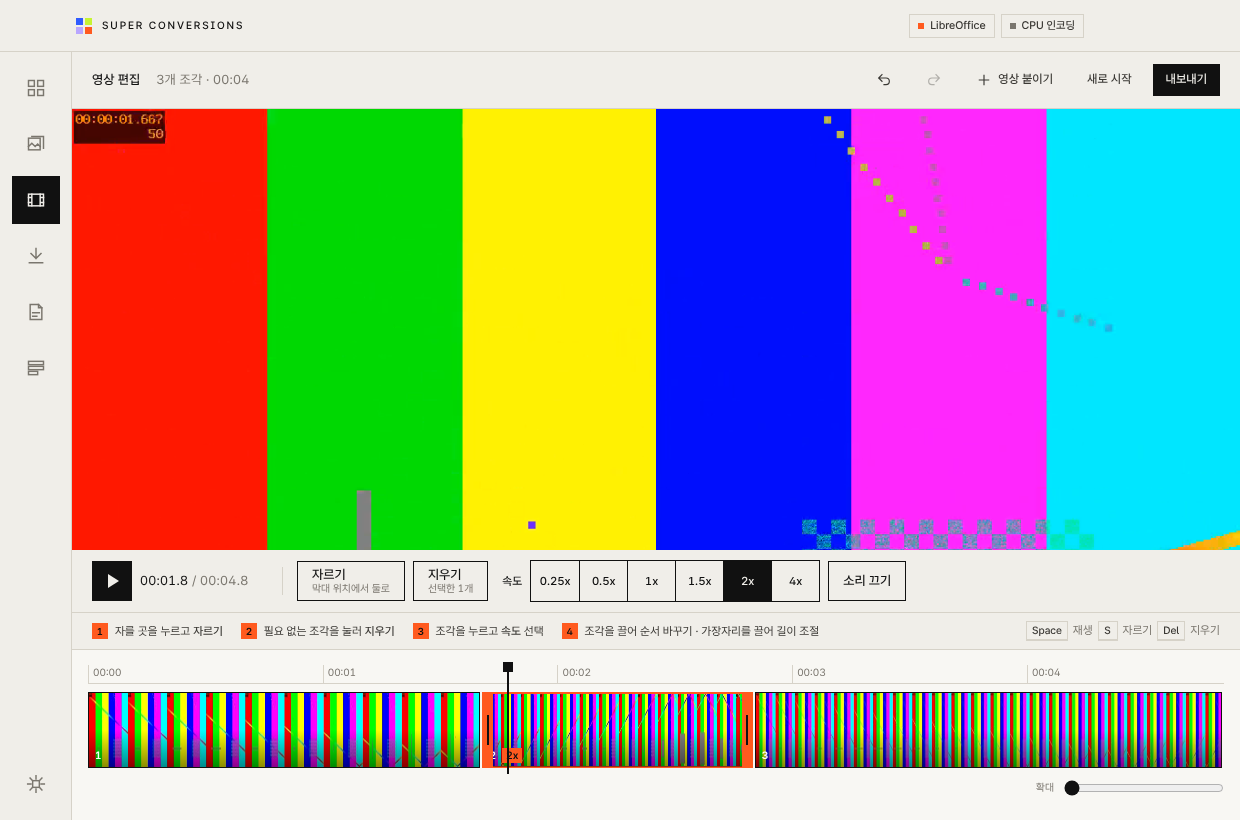
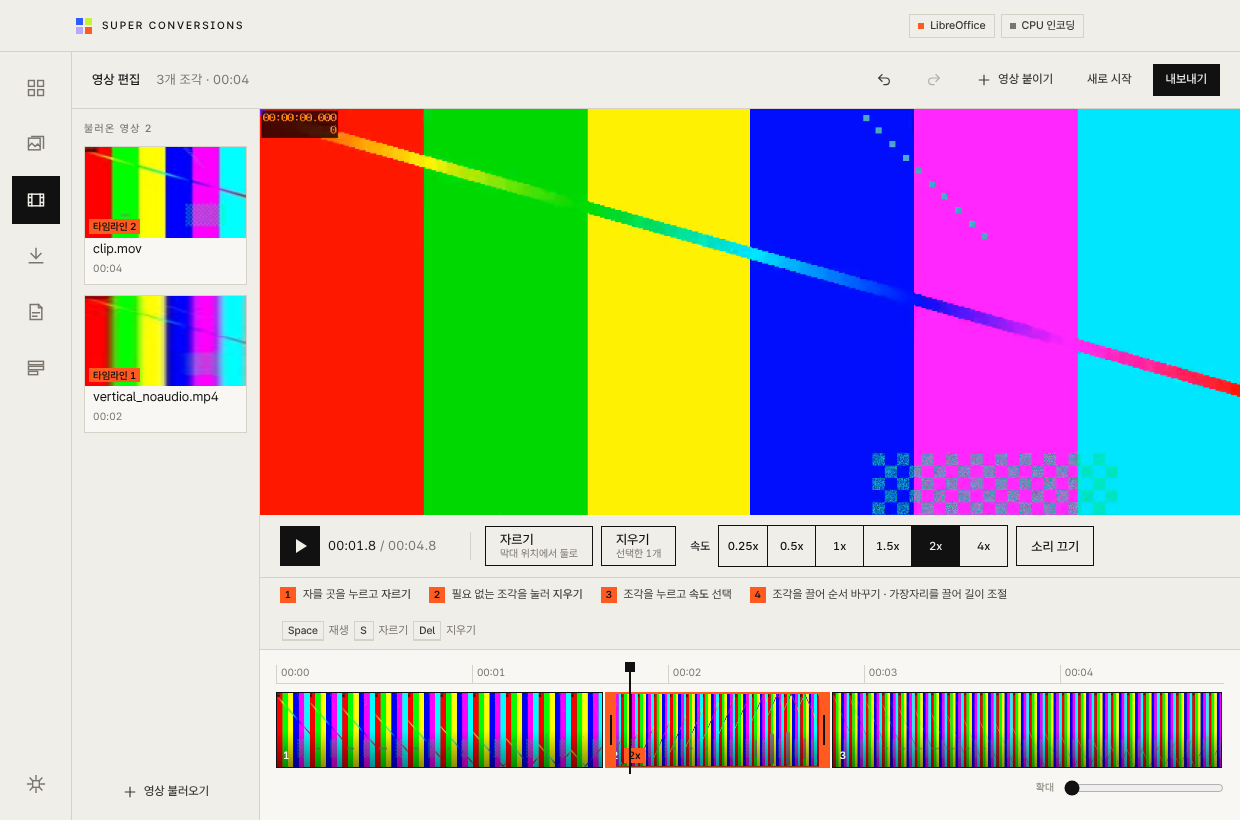
영상 편집: 불러온 영상을 툴에서만 빼기 · 편집 중에도 불러온 영상 목록 표시 / 작업 탭: 내역 지우기가 화면에 반영되지 않던 문제 수정, 작업별 지우기 추가
Claude-Session: https://claude.ai/code/session_01LHmiibpoSay6Wsauo541aD

diff --git a/src/renderer/src/views/VideoEditor.tsx b/src/renderer/src/views/VideoEditor.tsx
@@ -2,7 +2,7 @@ import { useCallback, useEffect, useMemo, useRef, useState } from 'react'
 import type { ExportLevel, Job, VideoClipInfo } from '@shared/types'
 import { sc } from '../lib/api'
 import { baseName, cls, fmtBytes } from '../lib/util'
-import { IcPlus, IcRedo, IcUndo } from '../lib/icons'
+import { IcPlus, IcRedo, IcUndo, IcX } from '../lib/icons'
 
 // ---------------------------------------------------------------- model
 interface Clip {
@@ -154,6 +154,25 @@ export default function VideoEditor({ active, inbox, clearInbox, toast }: Props)
   }, [inbox]) // eslint-disable-line react-hooks/exhaustive-deps
 
   useEffect(() => sc.onProxyProgress((p, x) => setProxyPct((m) => ({ ...m, [p]: x }))), [])
+
+  /** Remove an imported video from the tool only — the file on disk is untouched. */
+  const removeClip = (path: string) => {
+    const used = segsRef.current.filter((x) => x.path === path).length
+    if (used && !window.confirm(`타임라인에서 이 영상으로 만든 조각 ${used}개도 함께 빠집니다. 계속할까요?\n(컴퓨터의 원본 파일은 지워지지 않습니다)`)) return
+    if (used) {
+      video.current?.pause()
+      setPlaying(false)
+      loadedPath.current = null
+      commit((ss) => ss.filter((x) => x.path !== path))
+      setSel(new Set())
+    }
+    setClips((c) => {
+      const n = { ...c }
+      delete n[path]
+      return n
+    })
+    toast(`${baseName(path)}을(를) 목록에서 뺐습니다 · 원본 파일은 그대로입니다`)
+  }
 
   // ---------------------------------------------------------------- playback
   const loadSeg = useCallback(async (i: number, src: number, autoplay: boolean) => {
@@ -424,7 +443,7 @@ export default function VideoEditor({ active, inbox, clearInbox, toast }: Props)
               <button onClick={async () => addPaths(await sc.pickVideos(), 'replace')}>영상 불러오기</button>
             </div>
           </div>
-          {shelf.length > 0 && <Shelf shelf={shelf} onEdit={(p) => addPaths([p], 'replace')} onAppend={(p) => addPaths([p], 'append')} />}
+          {shelf.length > 0 && <Shelf shelf={shelf} onEdit={(p) => addPaths([p], 'replace')} onAppend={(p) => addPaths([p], 'append')} onRemove={removeClip} />}
         </div>
       </div>
     )
@@ -506,6 +525,14 @@ export default function VideoEditor({ active, inbox, clearInbox, toast }: Props)
         </div>
       )}
 
+      <div className="vedit-body">
+      <aside className="vedit-bin">
+        <div className="cap">불러온 영상 {shelf.length}</div>
+        <Shelf compact shelf={shelf} onEdit={(p) => addPaths([p], 'append')} onAppend={(p) => addPaths([p], 'append')} onRemove={removeClip} usage={(p) => segs.filter((x) => x.path === p).length} />
+        <button className="btn ghost" style={{ justifyContent: 'center' }} onClick={async () => addPaths(await sc.pickVideos(), 'shelf')}>
+          <IcPlus /> 영상 불러오기
+        </button>
+      </aside>
       <div className="vedit-main">
         <div className="vedit-stage">
           <video ref={video} className="vedit-video" playsInline onError={onVideoError} onClick={togglePlay} />
@@ -639,38 +666,61 @@ export default function VideoEditor({ active, inbox, clearInbox, toast }: Props)
         </div>
       </div>
 
+      </div>
       {exporting && <ExportModal total={total} first={segs[0].path} firstClip={clips[segs[0].path]} onClose={() => setExporting(false)} onRun={runExport} />}
     </div>
   )
 }
 
 // ---------------------------------------------------------------- pieces
-function Shelf({ shelf, onEdit, onAppend }: { shelf: Clip[]; onEdit: (p: string) => void; onAppend: (p: string) => void }) {
+function Shelf({ shelf, onEdit, onAppend, onRemove, compact, usage }: { shelf: Clip[]; onEdit: (p: string) => void; onAppend: (p: string) => void; onRemove: (p: string) => void; compact?: boolean; usage?: (p: string) => number }) {
+  const cards = (
+    <div className={cls('vshelf', compact && 'compact')}>
+      {shelf.map((c) => {
+        const n = usage?.(c.path) ?? 0
+        return (
+          <div key={c.path} className="vcard" onClick={() => onEdit(c.path)} title={compact ? '눌러서 타임라인 끝에 붙이기' : '눌러서 편집'}>
+            <div className="th" style={c.sprite ? { backgroundImage: `url(${c.sprite.url})`, backgroundSize: `${c.sprite.frames * 100}% 100%` } : undefined}>
+              <button
+                className="vcard-x"
+                onClick={(e) => {
+                  e.stopPropagation()
+                  onRemove(c.path)
+                }}
+                title="툴에서만 빼기 (원본 파일은 지워지지 않습니다)"
+                aria-label="목록에서 빼기"
+              >
+                <IcX />
+              </button>
+              {n > 0 && <span className="vcard-n">타임라인 {n}</span>}
+            </div>
+            <div className="nm">{c.name}</div>
+            <div className="muted mono" style={{ fontSize: 10.5 }}>
+              {fmt(c.info.duration)}
+            </div>
+            {!compact && (
+              <button
+                className="btn ghost"
+                onClick={(e) => {
+                  e.stopPropagation()
+                  onAppend(c.path)
+                }}
+              >
+                + 붙이기
+              </button>
+            )}
+          </div>
+        )
+      })}
+    </div>
+  )
+  if (compact) return cards
   return (
     <div style={{ marginTop: 28, textAlign: 'left' }}>
       <div className="cap" style={{ marginBottom: 8 }}>
         불러온 영상
       </div>
-      <div className="vshelf">
-        {shelf.map((c) => (
-          <div key={c.path} className="vcard" onClick={() => onEdit(c.path)} title="눌러서 편집">
-            <div className="th" style={c.sprite ? { backgroundImage: `url(${c.sprite.url})`, backgroundSize: `${c.sprite.frames * 100}% 100%` } : undefined} />
-            <div className="nm">{c.name}</div>
-            <div className="muted mono" style={{ fontSize: 10.5 }}>
-              {fmt(c.info.duration)}
-            </div>
-            <button
-              className="btn ghost"
-              onClick={(e) => {
-                e.stopPropagation()
-                onAppend(c.path)
-              }}
-            >
-              + 붙이기
-            </button>
-          </div>
-        ))}
-      </div>
+      {cards}
     </div>
   )
 }

diff --git a/src/renderer/src/views/JobsView.tsx b/src/renderer/src/views/JobsView.tsx
@@ -40,11 +40,11 @@ export default function JobsView({ jobs }: { jobs: Job[] }) {
       <div className="row" style={{ alignItems: 'flex-end' }}>
         <div className="grow">
           <h1>작업</h1>
-          <p className="lead">변환 결과는 원본 폴더의 SUPER CONVERSIONS/V번호 폴더에 저장됩니다. 실행할 때마다 V1, V2, V3…가 새로 만들어집니다.</p>
+          <p className="lead">변환 결과는 원본 폴더의 SUPER CONVERSIONS/V번호 폴더에 저장됩니다. 실행할 때마다 V1, V2, V3…가 새로 만들어집니다. 내역을 지워도 만들어진 파일은 그대로 남습니다.</p>
         </div>
-        {jobs.some((j) => j.status !== 'running') && (
-          <button className="btn ghost" onClick={() => sc.clearJobs()}>
-            완료 항목 지우기
+        {jobs.some((j) => j.status !== 'running' && j.status !== 'queued') && (
+          <button className="btn" onClick={() => sc.clearJobs()} title="진행 중인 작업은 남기고 끝난 작업 내역만 지웁니다. 만들어진 파일은 지워지지 않습니다.">
+            끝난 작업 모두 지우기
           </button>
         )}
       </div>
@@ -68,6 +68,11 @@ export default function JobsView({ jobs }: { jobs: Job[] }) {
               {j.status === 'running' && (
                 <button className="btn ghost" onClick={() => sc.cancel(j.id)}>
                   <IcX /> 취소
+                </button>
+              )}
+              {j.status !== 'running' && j.status !== 'queued' && (
+                <button className="btn ghost" onClick={() => sc.removeJob(j.id)} title="이 작업 내역만 목록에서 지웁니다 (파일은 그대로)" aria-label="내역 지우기">
+                  <IcX />
                 </button>
               )}
               {j.outDirs.map((d) => (

diff --git a/src/main/index.ts b/src/main/index.ts
@@ -6,7 +6,7 @@ import { initUpdater, setUpdaterEnabled } from './updater'
 import { categoryOf, type ActionId } from '@shared/formats'
 import type { ActionOptions, EditDocument, EngineStatus, Settings } from '@shared/types'
 import { getSettings, saveSettings, addSignature, removeSignature, getSignaturePng } from './settings'
-import { startJob, startEditJob, startDownloadJob, cancelJob, listJobs, clearFinished } from './jobs'
+import { startJob, startEditJob, startDownloadJob, cancelJob, listJobs, clearFinished, removeJob } from './jobs'
 import { detectOffice, officeWorker } from './engines/office'
 import { probeUrl, extractUrls } from './engines/download'
 import { pageInfo } from './engines/pdf'
@@ -321,6 +321,7 @@ function registerIpc() {
   ipcMain.handle('job:cancel', (_e, id: string) => cancelJob(id))
   ipcMain.handle('job:list', () => listJobs())
   ipcMain.handle('job:clear', () => clearFinished())
+  ipcMain.handle('job:remove', (_e, id: string) => removeJob(id))
   ipcMain.handle('url:probe', (_e, url: string) => probeUrl(url))
   ipcMain.handle('url:extract', (_e, text: string) => extractUrls(text))
   ipcMain.handle('pdf:pageInfo', (_e, path: string) => pageInfo(path))
@@ -500,7 +501,11 @@ async function devShots(dir: string, files: string[]) {
     await js(`[...document.querySelectorAll('.toolbar .btn')].find((b) => b.textContent.includes('내보내기')).click()`)
     await wait(700)
     await shot('14-video-export')
+    await js(`document.body.dispatchEvent(new KeyboardEvent('keydown', { key: 'Escape', bubbles: true }))`)
   }
+  await js(`document.querySelectorAll('.rail button')[5].click()`)
+  await wait(800)
+  await shot('15-jobs')
   app.exit(0)
 }
 

diff --git a/src/main/selftest.ts b/src/main/selftest.ts
@@ -5,7 +5,7 @@ import { join } from 'path'
 import sharp from 'sharp'
 import { PDFDocument, StandardFonts, rgb, degrees } from '@cantoo/pdf-lib'
 import { ffmpegPath, run, findSoffice } from './tools'
-import { startJob, listJobs, startEditJob } from './jobs'
+import { startJob, listJobs, startEditJob, clearFinished, removeJob } from './jobs'
 import type { ActionId } from '@shared/formats'
 import type { ActionOptions, Job } from '@shared/types'
 import { toDocx, toHwpx } from './engines/docmodel'
@@ -233,6 +233,16 @@ export async function runSelfTest(dir: string): Promise<boolean> {
   console.log(`${ejd.status === 'done' ? 'PASS' : 'FAIL'}  pdf.edit  ${ejd.files[0].message}`)
   if (ejd.status !== 'done') ok = false
   results.push({ action: 'pdf.edit', status: ejd.status, files: ejd.files })
+  // ---------- job history: remove one, then clear all finished
+  {
+    const before = listJobs().length
+    const one = listJobs()[0]
+    const afterOne = removeJob(one.id).length
+    const afterAll = clearFinished().length
+    const pass = before > 1 && afterOne === before - 1 && afterAll === 0
+    if (!pass) ok = false
+    console.log(`${pass ? 'PASS' : 'FAIL'}  job-history  ${before} → ${afterOne} → ${afterAll}`)
+  }
   await fs.writeFile(P('selftest-report.json'), JSON.stringify(results, null, 2))
   return ok
 }

diff --git a/src/renderer/src/styles.css b/src/renderer/src/styles.css
@@ -1991,3 +1991,58 @@ textarea.inp {
   color: inherit;
   opacity: 0.7;
 }
+
+.vedit-body {
+  display: grid;
+  grid-template-columns: 188px 1fr;
+  min-height: 0;
+}
+.vedit-bin {
+  border-right: 1px solid var(--line);
+  padding: 12px;
+  display: grid;
+  grid-template-rows: auto 1fr auto;
+  gap: 10px;
+  min-height: 0;
+  overflow: hidden;
+}
+.vshelf.compact {
+  width: auto;
+  grid-template-columns: 1fr;
+  overflow-y: auto;
+  align-content: start;
+  min-height: 0;
+}
+.vcard .th {
+  position: relative;
+}
+.vcard-x {
+  position: absolute;
+  top: 4px;
+  right: 4px;
+  width: 22px;
+  height: 22px;
+  background: var(--surface);
+  border: 1px solid var(--line-strong);
+  display: grid;
+  place-items: center;
+  opacity: 0;
+  transition: opacity 0.12s;
+}
+.vcard:hover .vcard-x {
+  opacity: 1;
+}
+.vcard-x:hover {
+  background: var(--ink);
+  color: var(--inverse);
+}
+.vcard-n {
+  position: absolute;
+  left: 4px;
+  bottom: 4px;
+  background: var(--tone);
+  color: var(--on-tone);
+  font-size: 10px;
+  font-weight: 600;
+  padding: 0 4px;
+}

diff --git a/src/main/jobs.ts b/src/main/jobs.ts
@@ -49,8 +49,21 @@ export const listJobs = () => [...jobs.values()].sort((a, b) => b.createdAt - a.
 export function cancelJob(id: string) {
   aborts.get(id)?.abort()
 }
+/** Tell every window the full list changed (removals don't come through job:update). */
+function broadcastList() {
+  const list = listJobs()
+  for (const w of BrowserWindow.getAllWindows()) if (!w.isDestroyed()) w.webContents.send('jobs:list', list)
+  return list
+}
 export function clearFinished() {
   for (const [id, j] of jobs) if (j.status !== 'running' && j.status !== 'queued') jobs.delete(id)
+  return broadcastList()
+}
+export function removeJob(id: string) {
+  const j = jobs.get(id)
+  if (j && (j.status === 'running' || j.status === 'queued')) return listJobs() // cancel first
+  jobs.delete(id)
+  return broadcastList()
 }
 
 function newJob(action: Job['action'], inputs: string[], options: ActionOptions, title?: string): Job {

diff --git a/src/preload/index.ts b/src/preload/index.ts
@@ -46,7 +46,9 @@ const api = {
   startDownload: (urls: string[]): Promise<Job> => ipcRenderer.invoke('job:download', urls),
   cancel: (id: string) => ipcRenderer.invoke('job:cancel', id),
   jobs: (): Promise<Job[]> => ipcRenderer.invoke('job:list'),
-  clearJobs: () => ipcRenderer.invoke('job:clear'),
+  clearJobs: (): Promise<Job[]> => ipcRenderer.invoke('job:clear'),
+  removeJob: (id: string): Promise<Job[]> => ipcRenderer.invoke('job:remove', id),
+  onJobList: (cb: (jobs: Job[]) => void) => on<[Job[]]>('jobs:list', cb),
   onJob: (cb: (j: Job) => void) => on<[Job]>('job:update', cb),
   probeUrl: (u: string): Promise<UrlInfo> => ipcRenderer.invoke('url:probe', u),
   extractUrls: (t: string): Promise<string[]> => ipcRenderer.invoke('url:extract', t),

diff --git a/src/renderer/src/App.tsx b/src/renderer/src/App.tsx
@@ -54,6 +54,7 @@ export default function App() {
     sc.updateState().then(setUpd)
     const offU = sc.onUpdate(setUpd)
     const offV = sc.onView((v) => setView(v as View))
+    const offL = sc.onJobList(setJobs)
     const off1 = sc.onJob((j) => setJobs((xs) => [j, ...xs.filter((x) => x.id !== j.id)].sort((a, b) => b.createdAt - a.createdAt)))
     const off2 = sc.onMainLoad((fs, action) => {
       setFiles((x) => [...new Set([...x, ...fs])])
@@ -75,6 +76,7 @@ export default function App() {
     window.addEventListener('sc-edit-videos', editVid)
     return () => {
       off1()
+      offL()
       off2()
       offU()
       offV()
